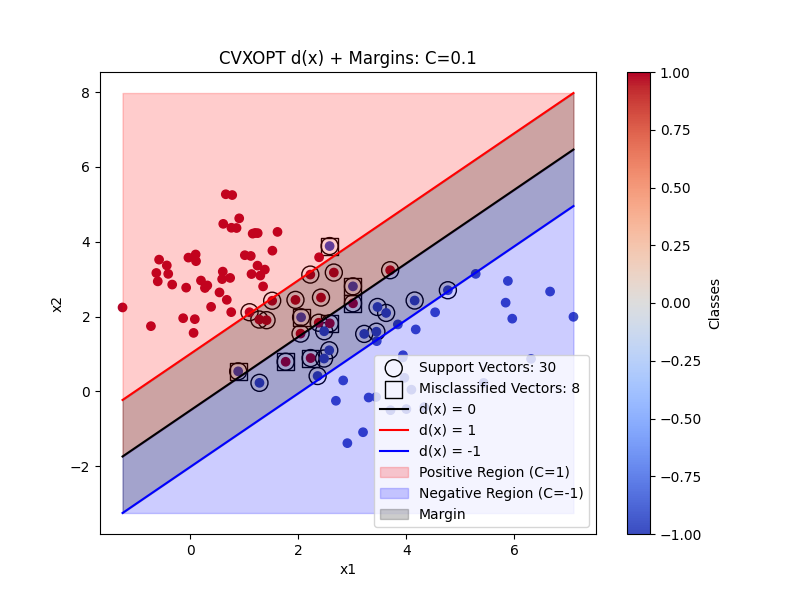
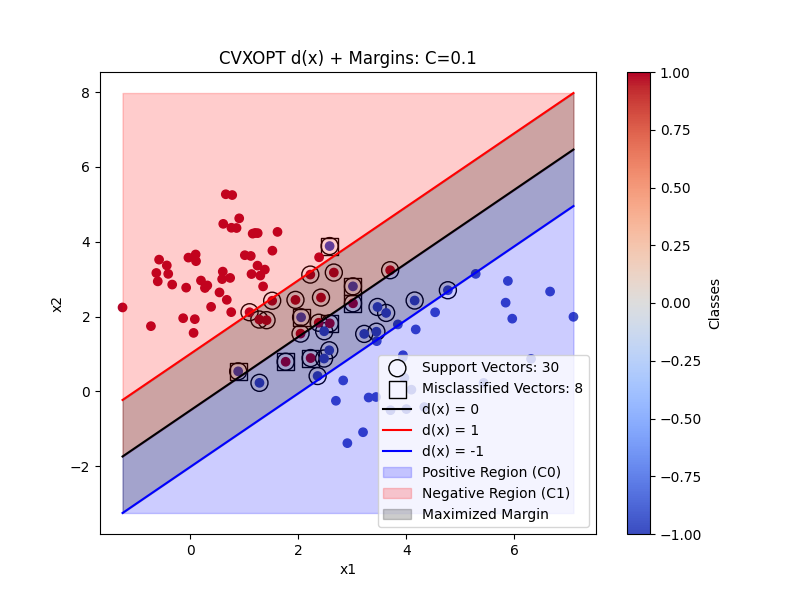
Revert "Merge branch 'master' of github.com:xVoidDevilx/Python_Projects"
This reverts commit cce7494e1f40e2be1e3d03142b52961df5c357b2, reversing
changes made to 95b3f30e7cf940f32c38a460820dd4ea1724a22a.

Changed region(s): [[0.4688, 0.6, 0.75, 0.87]]

diff --git a/ML_PR/Pattern Rec/Project 2/Rodriguez_Silas_Project2.py b/ML_PR/Pattern Rec/Project 2/Rodriguez_Silas_Project2.py
@@ -128,12 +128,12 @@ def SoftMargin_SVM(X:np.ndarray, t:np.ndarray, C:float, req_reclass:bool=False, 
         plt.plot(x_line, margin1, c='red', label='d(x) = 1')
         plt.plot(x_line, margin2, c='blue', label='d(x) = -1')
 
-        # Shade the entire region above margin1 in red
-        plt.fill_between(x_line, y_line, max(margin1), color='red', alpha=0.2, label='Positive Region (C=1)')
         # Shade the entire region below margin2 in blue
-        plt.fill_between(x_line, y_line, min(margin2), color='blue', alpha=0.2, label='Negative Region (C=-1)')
+        plt.fill_between(x_line, y_line, min(margin2), color='blue', alpha=0.2, label='Positive Region (C0)')
+        # Shade the entire region above margin1 in red
+        plt.fill_between(x_line, y_line, max(margin1), color='red', alpha=0.2, label='Negative Region (C1)')
         # shade the margin with gray
-        plt.fill_between(x_line, margin1, margin2, color='black', alpha=0.2, label='Margin')
+        plt.fill_between(x_line, margin1, margin2, color='black', alpha=0.2, label='Maximized Margin')
 
         plt.legend()
         plt.xlabel('x1')
@@ -205,10 +205,10 @@ def SkLearn_SVM(X:np.ndarray, t:np.ndarray, C:float, req_reclass:bool=False, plo
         plt.plot(x_line, margin1, c='red', label='d(x) = 1')
         plt.plot(x_line, margin2, c='blue', label='d(x) = -1')
 
-        # Shade the entire region above margin1 in red
-        plt.fill_between(x_line, y_line, max(margin1), color='red', alpha=0.2, label='Positive Region (C=1)')
         # Shade the entire region below margin2 in blue
-        plt.fill_between(x_line, y_line, min(margin2), color='blue', alpha=0.2, label='Negative Region (C=-1)')
+        plt.fill_between(x_line, y_line, min(margin2), color='blue', alpha=0.2, label='Positive Region (C0)')
+        # Shade the entire region above margin1 in red
+        plt.fill_between(x_line, y_line, max(margin1), color='red', alpha=0.2, label='Negative Region (C1)')
         # shade the margin with gray
         plt.fill_between(x_line, margin1, margin2, color='black', alpha=0.2, label='Margin')
 
